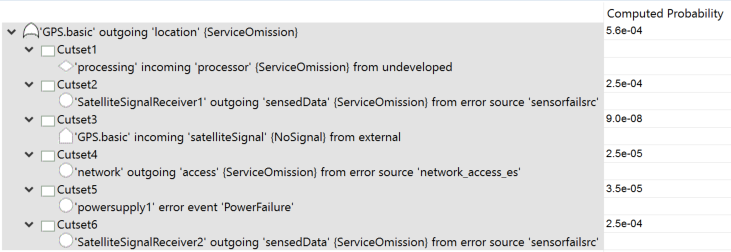
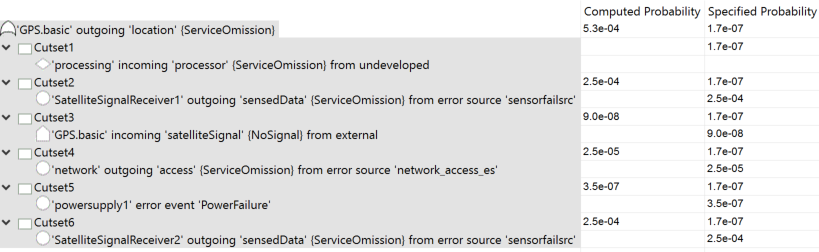
Updated figures with probability values that tell a better story for needing redundancy.

Changed region(s): [[0.0, 0.0, 1.0, 1.0]]

diff --git a/org.osate.aadl2.errormodel.contrib/doc/safetyanalysisexample.md b/org.osate.aadl2.errormodel.contrib/doc/safetyanalysisexample.md
@@ -99,9 +99,9 @@ The Fault Impact Analysis shows no results since he have not added any connectio
 
 In the Fault Tree Analysis we generate a parts fault tree with the GPS FailStop state as the root. In this case, the composite state logic is used to determine the structure of the fault tree. The resulting fault tree directly reflects the composite state logic. If we had specified multiple levels of a system architecture, the fault tree would be a composite of the fragments specified in composite state declarations at each layer of the architecture.
 
-From the computed fault occurrence probability on the fault tree, we can see that the higher occurrence probability of the sensor dominates the fault occurrence probability of the GPS. The figure exceeds the desired target.
+From the computed fault occurrence probability on the fault tree, we can see that computed occurrence probability for GPS exceeds the the specified value.
 
-![FTA GPS](images/gps-1sensor-parts-faulttree.png "GPS FTA")
+![FTA GPS](images/gps-1sensor-parts-faulttree.png "FTA GPS")
 
 
 ## Transient and Persistent Faults in the Sensor
@@ -112,25 +112,29 @@ We can configure this specification into our physical parts design – see the s
 
 ![GPS Transient](images/GPS-TransientSensor.png "GPS Transient")
 
+As a result of distinguishing between transient and persistent failures the occurrence probability for GPS is reduced from 3.4e-4 to 1.9e-4, but still well above the desired value.
+
+![GPS Transient Tree](images/GPS-TransientSensor-Tree.png "GPS Transient Tree")
+
 ## Exploring Two Redundancy Options
-We define an alternative design with two sensors (GPS.parts_TwoSensor) to assess if this is sufficient for reaching the target failure occurrence probability. This is done by adding a second sensor as a subcomponent to the GPS system implementation, and by changing the composite state declaration to specify the two sensor failure with an AND operator. This indicates that the two sensors are assumed to be operating redundantly and one sensor is sufficient for operation.
+In this section we consider two ways of achieving reduced FailStop occurrence probability for the flight system. First, we explore improving the GPS reliability by replicating its sensor. Then we consider replicating the GPS within the design of teh flight system.
+
+We define an alternative design of GPS with two sensors (GPS.parts_TwoSensor) to assess if this is sufficient for reaching the target failure occurrence probability. We are replicating the sensor because it had the highest occurrence probability of all the GPS parts. We add a second sensor as a subcomponent to the GPS system implementation, and change the composite state declaration to specify the two sensor failure with an AND operator. This indicates that the two sensors are assumed to be operating redundantly and one sensor is sufficient for operation (GPS.parts_TwoSensor).
 
 ![GPS 2 Sensor](images/GPS-TwoSensor-Parts.png "GPS 2 Sensor")
 
-The resulting fault tree results including occurrence probability are shown in table view.
+The resulting fault tree reduces the occurrence probability to 8.8e-5. Note that the redundant sensors have an occurren probability of 6.3e-8, but the other parts limit the overall occurrence probability to e-5.
 
 ![GPS 2 Sensor](images/fta-gps2sensorstatetable.png "GPS 2 Sensor")
 
-The fault occurrence probability of this redundant sensor design may be too close to the target values as we are early in the system design. Therefore, the architect of the flight system can quickly explore the an alternative flight system architecture with a dual GPS design and determine whether this alternative provides a better solution with respect to the target occurrence probability for the flight system.
-FlightSystem.DualGPS is a specification of such a design.
+We can quickly explore a  flight system architecture with a replicated GFPS and determine whether it provides a better solution with respect to the target occurrence probability for the flight system. 
 
 ![FS Dual](images/FS-Dual-Graphic.png "FS Dual")
 
-The resulting fault tree results including occurrence probability are shown in table view.
+FlightSystem.DualGPSSingleSensor is a model of such a design using the GPS single sensor parts implementation. The resulting fault tree shows that the computed occurrence probability is smaller than the specified occurrence probability for the flight system.
 
-![FS Dual Tree](images/FS-Dual-Tree.png "FS Dual Tree")
+![FS Dual Tree](images/FS-Dual1Sensor-Tree.png "FS Dual Tree")
 
-Note that when considering architecture design alternative, architects may take into account other system characteristics, such as weight and electrical power consumption. By annotating the various physical part specifications in AADL with weight and electrical power properties we can support such analyses from the same AADL model.
 
 
 # GPS Functional Architecture and Physical System Binding
@@ -167,7 +171,7 @@ Fault Impact Analysis starts with each error source and traces the effect throug
 ![AADL GPSBasic FaultImpact](images/GPS-Basic-FaultImpact.png "AADL GPSBasic FaultImpact")
 FTA starts with an undesirable effect GPS can have on its operational environment, in our case out propagation of ServiceOmission from the GPS location port. We specify the undesirable effect as starting point for the generation of the fault tree by identifying the out propagation as the starting point in a dialog box after invoking the **Fault Tree Analysis** command. From that out propagation point the analysis traces backwards along connections as propagation paths, error flows through components, and state transitions triggers, if provided. Bindings will be included as propagation path once the binding is specified by the user (see next section).
 
-The resulting fault tree in its graphical view is shown below). The two instances of the sensor show up in the fault tree as an OR since the specification only includes error paths. The power supply and the network are included in the fault tree because the affect the performance of the sensors. The GPS processing unit itself is not shown as a contributor as the model does not include a specification of software as an error source. However, GPS processing is dependent on executing on a processor. This is indicated by an incoming error propagation point whose propagation path is not known until a deployment binding is specified (Undeveloped Event). In this case the fault tree event shows the expected incoming propagation with an expected occurrence probability that was specified with the incoming propagation.
+The resulting fault tree in its graphical view is shown below). The two instances of the sensor show up in the fault tree as an OR since the specification only includes error paths. The power supply and the network are included in the fault tree because the affect the performance of the sensors. The GPS processing unit itself is not shown as a contributor as the model does not include a specification of software as an error source. However, GPS processing is dependent on executing on a processor. This is indicated by an incoming error propagation point whose propagation path is not known until a deployment binding is specified (Undeveloped Event). In this case the fault tree event shows the incoming propagation with an expected occurrence probability that was specified with the incoming propagation.
 
 ![GPS Basic Tree](images/GPS-Basic-FaultTree.png "GPS Basic Tree")
 

diff --git a/org.osate.aadl2.errormodel.contrib/doc/safetyanalysis.md b/org.osate.aadl2.errormodel.contrib/doc/safetyanalysis.md
@@ -353,11 +353,13 @@ An example of a composite error behavior state declaration is shown here.
 
 
 
-In our example, the package *GPSSystem* contains the top level GPS system with a number of implementations with different levels of detail and configurations. The parts model is represented by the system implementation *gps.parts_TwoSensor*. The composite error behavior specifies that the state **FailStop** for **GPS** holds if both sensors that act as satellite signal receivers fail (AND), or any of the other parts fail. 
+In our example, the package *GPSSystem* contains the top level GPS system with a number of implementations with different levels of detail and configurations. The parts model is represented by the system implementation *gps.parts_TwoSensor*. The composite error behavior specifies that the state **FailStop** for **GPS** holds if both of the replicated satellite signal receivers fail (AND), or any of the other parts fail. 
 
 
 
->This is similar to specifying reliability block diagrams (RBD) in a compositional manner, where the logic of the composite error behavior state corresponds to the logic represented graphically by parallel and serial blocks. The **parts fault tree** replaces the RBD command from earlier versions of OSATE.
+>This is similar to specifying reliability block diagrams (RBD) in a compositional manner, where the logic of the composite error behavior state corresponds to the logic represented graphically by parallel (AND) and sequenced (OR) blocks. The **parts fault tree** replaces the RBD command from earlier versions of OSATE.
+
+> Users can also achieve the effect of RBD by modeling components with error flows and connections. In the case of components with multiple incoming error propagations represewnting replication users declare an out propgation condition declaration that specifies which incoming error propagations represent input from replicated component with AND logic (see Flow-based Fault Tree Generation below).
 
 
 
@@ -409,7 +411,7 @@ When the user selects **Fault tree with computed occurrence probability** the fa
 
 The generated fault tree for our **GPS.basic** example is shown below. The **powersupply1** and **network** components contribute an **error event** and **error source** respectively, which were shown in the trace as dependent events. Those events have been moved up to become subevents under the top-level system event connected via an OR gate. 
 
-
+> Note that in a flow-based fault tree the occurrence probability of an outgoing error propagation consists of the occurrence probability of all error events within the the root system parts as well as any incoming error propagation.
 
 ![GPS flow-based FTA](images/GPS-Basic-FaultTree.png "GPS flow-based FTA")
 
